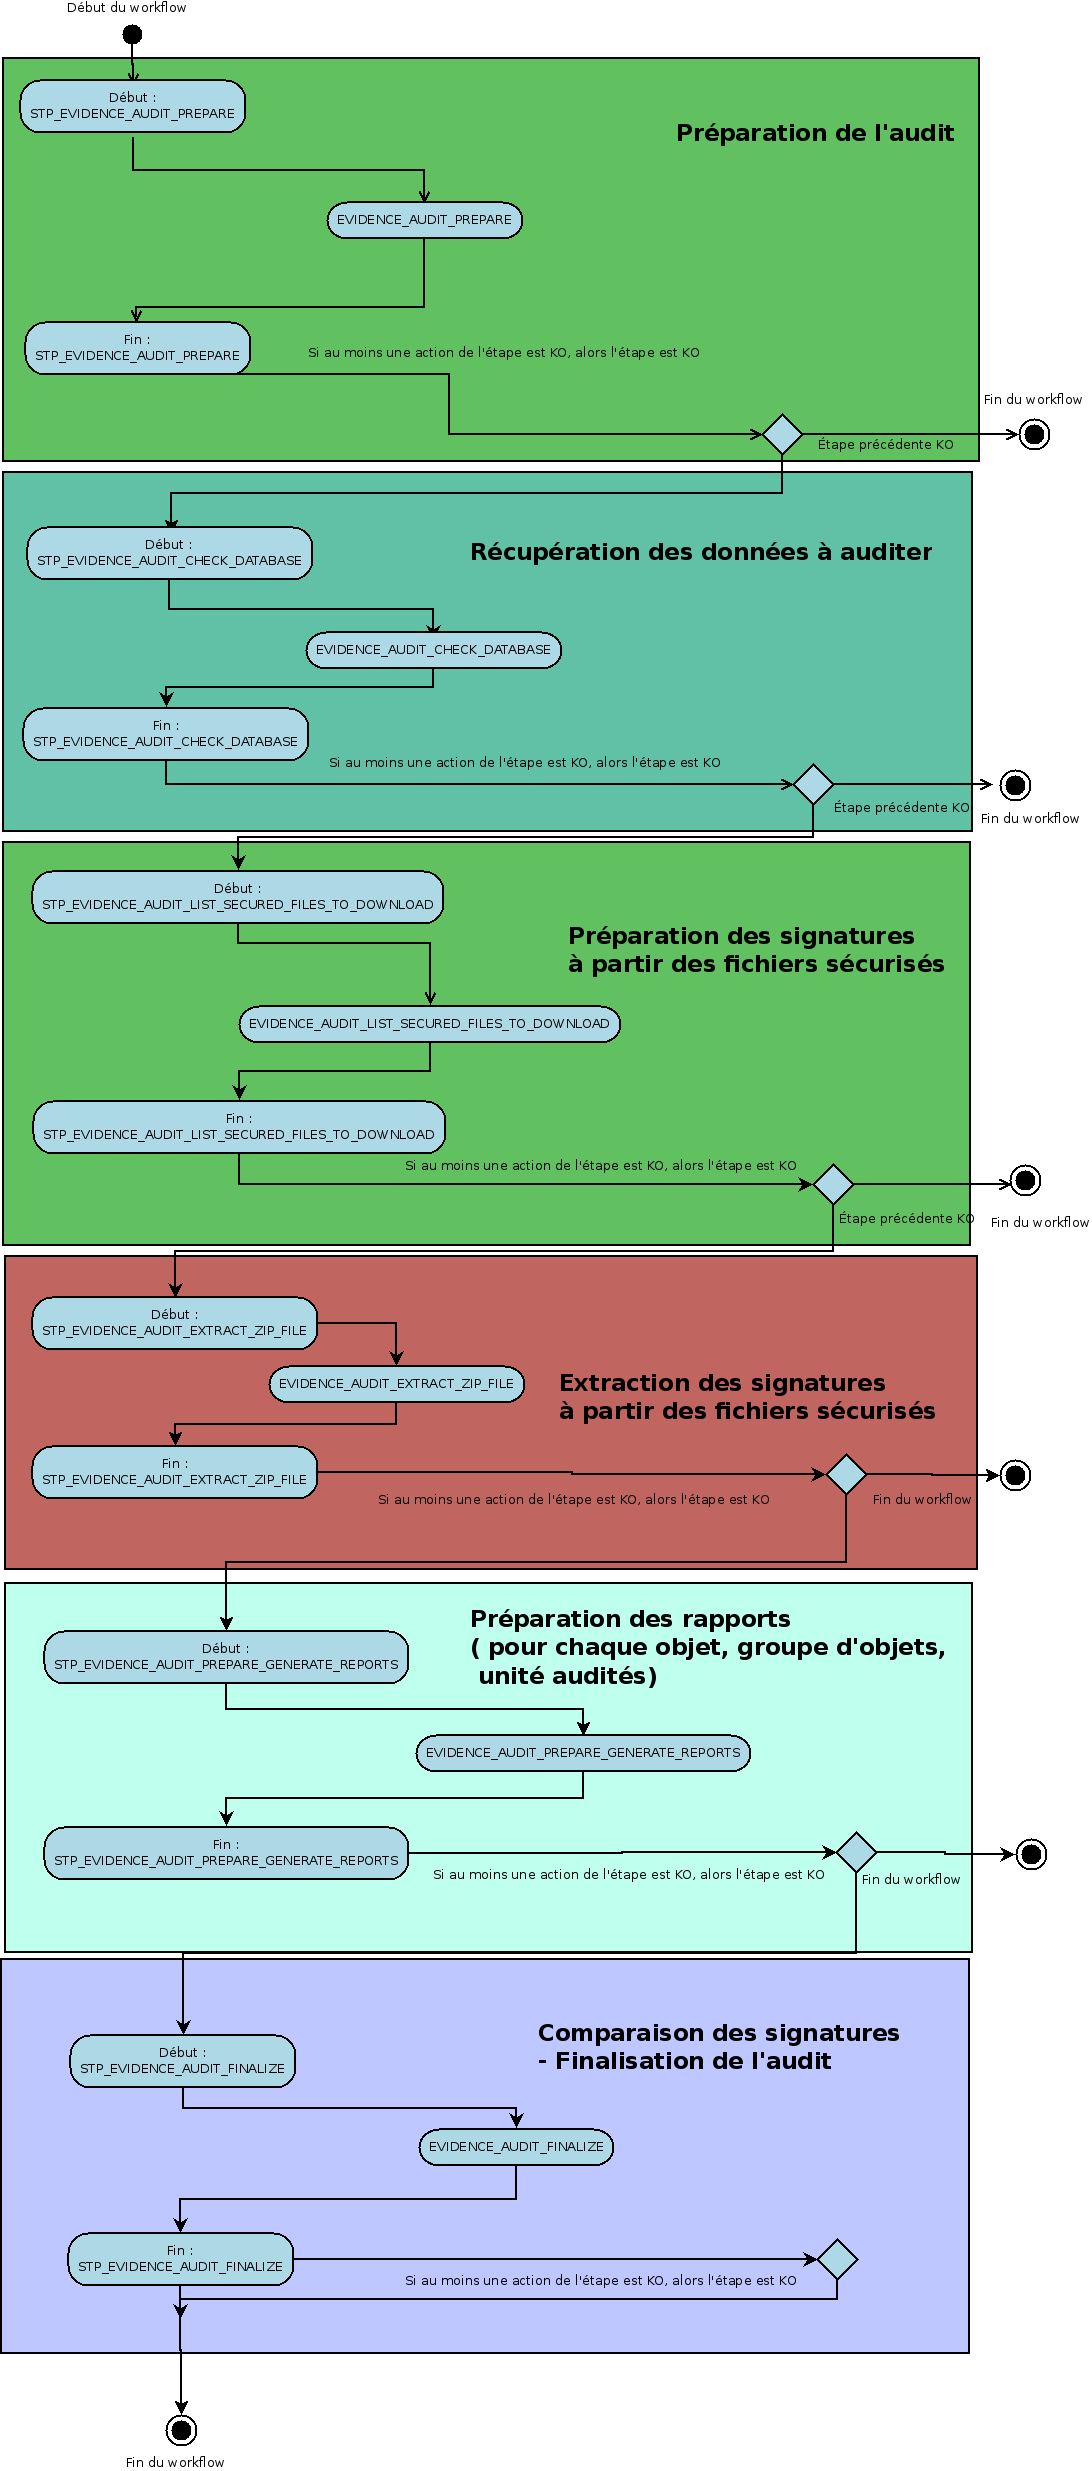
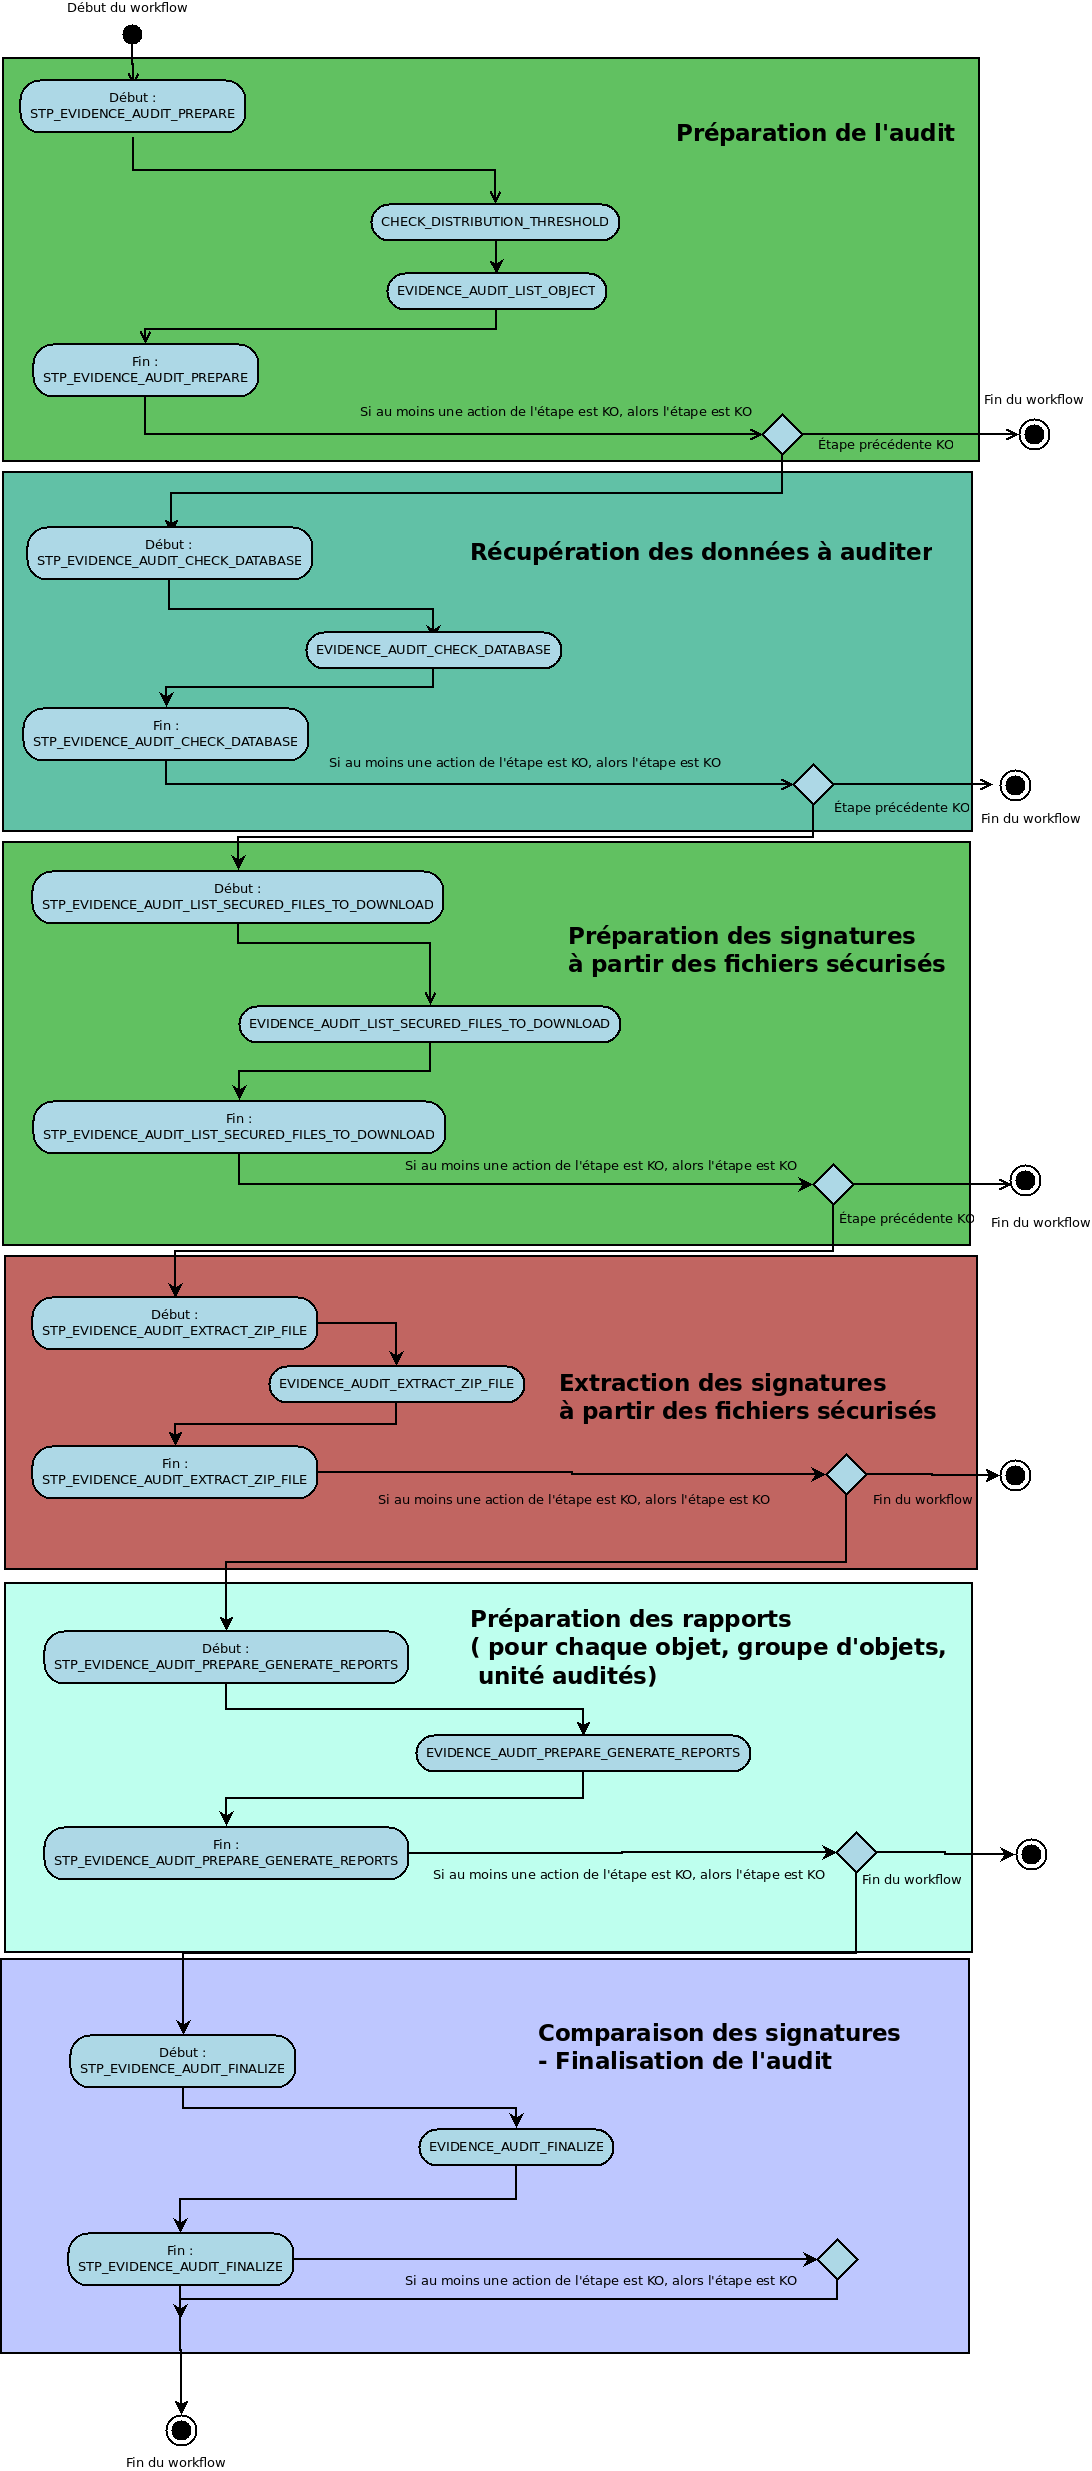
Doc US 5099 Threshold audit + DIP

diff --git a/doc/fr/workflow-model/audit/workflow_audit_file_consistency.rst b/doc/fr/workflow-model/audit/workflow_audit_file_consistency.rst
@@ -17,7 +17,25 @@ L'audit s'applique au niveau des unités archivistiques, des objets et des group
 
 
 Processus de préparation d'audit (STP_EVIDENCE_AUDIT_PREPARE)
-================================================================
+=============================================================
+
+Vérification des seuils de limitation de traitement des unités archivistiques CHECK_DISTRIBUTION_THRESHOLD
+-----------------------------------------------------------------------------------------------------------
+
+
++ **Règle** : Vérification des seuils de limitation de traitement des unités archivistiques
+
++ **Type** : bloquant
+
+* **Statuts** :
+
+  + OK : la vérification des seuils de limitation de traitement des unités archivistiques a bien été effectuée (CHECK_DISTRIBUTION_THRESHOLD.OK = Succès de la vérification des seuils de limitation de traitement des unités archivistiques)
+
+  + KO : la vérification des seuils de limitation de traitement des unités archivistiques n'a pas été effectuée en raison d'une erreur (CHECK_DISTRIBUTION_THRESHOLD.KO = Échec de la vérification des seuils de limitation de traitement des unités archivistiques)
+
+  + FATAL : une erreur technique est survenue lors de la vérification des seuils de limitation de traitement des unités archivistiques (CHECK_DISTRIBUTION_THRESHOLD.FATAL = Erreur technique lors de la vérification des seuils de limitation de traitement des unités archivistiques)
+
+
 
 Création de la liste à auditer EVIDENCE_AUDIT_LIST_OBJECT (EvidenceAuditPrepare.java)
 -------------------------------------------------------------------------------------

diff --git a/doc/fr/workflow-model/audit/workflow_probative_value.rst b/doc/fr/workflow-model/audit/workflow_probative_value.rst
@@ -12,6 +12,24 @@ objet qui lui est associé. Ce relevé de valeur probante réunit les éléments
 Processus de préparation du relevé de valeur probante (STP_PROBATIVE_VALUE_PREPARE)
 ===================================================================================
 
+Vérification des seuils de limitation de traitement des unités archivistiques CHECK_DISTRIBUTION_THRESHOLD
+-----------------------------------------------------------------------------------------------------------
+
+
++ **Règle** : Vérification des seuils de limitation de traitement des unités archivistiques
+
++ **Type** : bloquant
+
+* **Statuts** :
+
+  + OK : la vérification des seuils de limitation de traitement des unités archivistiques a bien été effectuée (CHECK_DISTRIBUTION_THRESHOLD.OK = Succès de la vérification des seuils de limitation de traitement des unités archivistiques)
+
+  + KO : la vérification des seuils de limitation de traitement des unités archivistiques n'a pas été effectuée en raison d'une erreur (CHECK_DISTRIBUTION_THRESHOLD.KO = Échec de la vérification des seuils de limitation de traitement des unités archivistiques)
+
+  + FATAL : une erreur technique est survenue lors de la vérification des seuils de limitation de traitement des unités archivistiques (CHECK_DISTRIBUTION_THRESHOLD.FATAL = Erreur technique lors de la vérification des seuils de limitation de traitement des unités archivistiques)
+
+
+
 Création de la liste des objects du relevé de valeur probante (PROBATIVE_VALUE_LIST_OBJECT)  
 -------------------------------------------------------------------------------------------
 

diff --git a/doc/fr/workflow-model/dip/workflow-dip.rst b/doc/fr/workflow-model/dip/workflow-dip.rst
@@ -14,6 +14,24 @@ Les étapes et actions associées ci-dessous décrivent le processus d'export de
 Processus de création du bordereau de mise à disposition (STP_CREATE_MANIFEST)
 ==============================================================================
 
+
+Vérification des seuils de limitation de traitement des unités archivistiques CHECK_DISTRIBUTION_THRESHOLD
+-----------------------------------------------------------------------------------------------------------
+
+
++ **Règle** : Vérification des seuils de limitation de traitement des unités archivistiques
+
++ **Type** : bloquant
+
+* **Statuts** :
+
+  + OK : la vérification des seuils de limitation de traitement des unités archivistiques a bien été effectuée (CHECK_DISTRIBUTION_THRESHOLD.OK = Succès de la vérification des seuils de limitation de traitement des unités archivistiques)
+
+  + KO : la vérification des seuils de limitation de traitement des unités archivistiques n'a pas été effectuée en raison d'une erreur (CHECK_DISTRIBUTION_THRESHOLD.KO = Échec de la vérification des seuils de limitation de traitement des unités archivistiques)
+
+  + FATAL : une erreur technique est survenue lors de la vérification des seuils de limitation de traitement des unités archivistiques (CHECK_DISTRIBUTION_THRESHOLD.FATAL = Erreur technique lors de la vérification des seuils de limitation de traitement des unités archivistiques)
+
+
 Création du Bordereau CREATE_MANIFEST (CreateManifest.java)
 -----------------------------------------------------------
 
